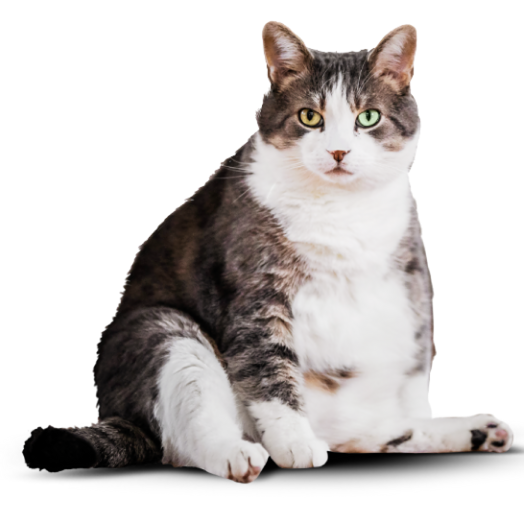
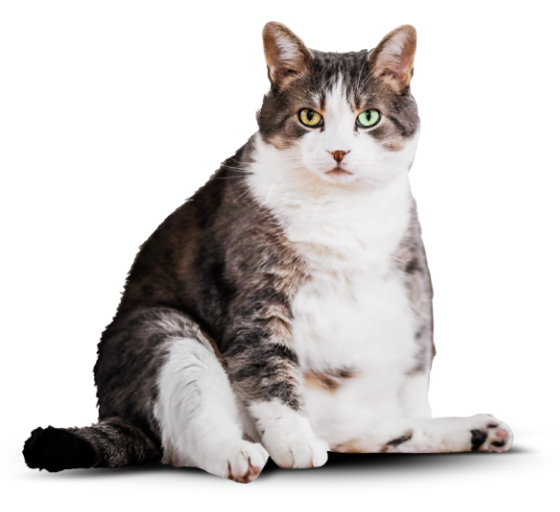
Исправляет размер картинки кота. Добавляет фавиконки для разных устройств. Оптимизирует svg иконку и добавляет смену ее цвета для темной темы в системе

diff --git a/source/catalog.html b/source/catalog.html
@@ -8,7 +8,8 @@
   <link rel="stylesheet" href="styles/styles.css">
   <link rel="icon" href="favicon.ico">
   <link rel="icon" href="favicons/icon.svg" type="image/svg+xml">
-  <link rel="apple-touch-icon" href="favicons/apple.png">
+  <link rel="apple-touch-icon" href="favicons/apple-touch-icon.png">
+  <link rel="manifest" href="/manifest.webmanifest">
   <script src="scripts/index.js" defer></script>
 </head>
 
@@ -103,7 +104,10 @@
         <li class="catalog__item">
           <article class="product-card">
             <a class="product-card__link-image" href="#">
-              <img class="product-card__image" src="#" alt="Зеленая упаковка" width="68" height="78">
+              <picture>
+                <source type="image/png" media="(min-width: 768px)" srcset="images/catalog-3-tablet@1x.png 1x, images/catalog-3-tablet@2x.png 2x" width="161" height="172">
+                <img class="product-card__image" src="images/catalog-3-mobile@1x.png" srcset="images/catalog-3-mobile@2x.png 2x" alt="Зеленая упаковка" width="68" height="78">
+              </picture>
             </a>
             <a class="product-card__link-title" href="#">
               <h3 class="product-card__title">Cat Energy PRO 500 г</h3>
@@ -129,7 +133,10 @@
         <li class="catalog__item">
           <article class="product-card">
             <a class="product-card__link-image" href="#">
-              <img class="product-card__image" src="#" alt="Зеленая упаковка побольше" width="84" height="100">
+              <picture>
+                <source type="image/png" media="(min-width: 768px)" srcset="images/catalog-4-tablet@1x.png 1x, images/catalog-4-tablet@2x.png 2x" width="161" height="172">
+                <img class="product-card__image" src="images/catalog-4-mobile@1x.png" srcset="images/catalog-4-mobile@2x.png 2x" alt="Зеленая упаковка побольше" width="84" height="100">
+              </picture>
             </a>
             <a class="product-card__link-title" href="#">
               <h3 class="product-card__title">Cat Energy PRO 1000 г</h3>
@@ -155,7 +162,10 @@
         <li class="catalog__item">
           <article class="product-card">
             <a class="product-card__link-image" href="#">
-              <img class="product-card__image" src="#" alt="Синяя упаковка" width="68" height="78">
+              <picture>
+                <source type="image/png" media="(min-width: 768px)" srcset="images/catalog-5-tablet@1x.png 1x, images/catalog-5-tablet@2x.png 2x" width="161" height="172">
+                <img class="product-card__image" src="images/catalog-5-mobile@1x.png" srcset="images/catalog-5-mobile@2x.png 2x" alt="Синяя упаковка" width="68" height="78">
+              </picture>
             </a>
             <a class="product-card__link-title" href="#">
               <h3 class="product-card__title">Cat Energy sLIM 500 г</h3>
@@ -181,7 +191,10 @@
         <li class="catalog__item">
           <article class="product-card">
             <a class="product-card__link-image" href="#">
-              <img class="product-card__image" src="#" alt="Синяя упаковка побольше" width="84" height="100">
+              <picture>
+                <source type="image/png" media="(min-width: 768px)" srcset="images/catalog-6-tablet@1x.png 1x, images/catalog-6-tablet@2x.png 2x" width="161" height="172">
+                <img class="product-card__image" src="images/catalog-6-mobile@1x.png" srcset="images/catalog-6-mobile@2x.png 2x" alt="Синяя упаковка побольше" width="84" height="100">
+              </picture>
             </a>
             <a class="product-card__link-title" href="#">
               <h3 class="product-card__title">Cat Energy SLIM 1000 г</h3>
@@ -207,7 +220,10 @@
         <li class="catalog__item">
           <article class="product-card">
             <a class="product-card__link-image" href="#">
-              <img class="product-card__image" src="#" alt="Фиолетовая упаковка" width="72" height="84">
+              <picture>
+                <source type="image/png" media="(min-width: 768px)" srcset="images/catalog-7-tablet@1x.png 1x, images/catalog-7-tablet@2x.png 2x" width="161" height="172">
+                <img class="product-card__image" src="images/catalog-7-mobile@1x.png" srcset="images/catalog-7-mobile@2x.png 2x" alt="Фиолетовая упаковка" width="72" height="84">
+              </picture>
             </a>
             <a class="product-card__link-title" href="#">
               <h3 class="product-card__title">Cat Energy slim 500 г</h3>

diff --git a/source/index.html b/source/index.html
@@ -8,7 +8,8 @@
   <link rel="stylesheet" href="styles/styles.css">
   <link rel="icon" href="favicon.ico">
   <link rel="icon" href="favicons/icon.svg" type="image/svg+xml">
-  <link rel="apple-touch-icon" href="favicons/apple.png">
+  <link rel="apple-touch-icon" href="favicons/apple-touch-icon.png">
+  <link rel="manifest" href="/manifest.webmanifest">
   <script src="scripts/index.js" defer></script>
 </head>
 
@@ -111,7 +112,7 @@
         </dl>
         <div class="live-example__slider compare-slider">
           <picture>
-            <source type="image/png" media="(min-width: 768px)" srcset="images/cat-before-tablet@1x.png 1x, images/cat-before-tablet@2x.png 2x" width="530" height="512">
+            <source type="image/png" media="(min-width: 768px)" srcset="images/cat-before-tablet@1x.png 1x, images/cat-before-tablet@2x.png 2x" width="560" height="512">
             <img class="compare-slider__image compare-slider__image--before" src="images/cat-before-mobile@1x.png" srcset="images/cat-before-mobile@2x.png 2x" alt="Толстый кот" width="280" height="256">
           </picture>
           <picture>
